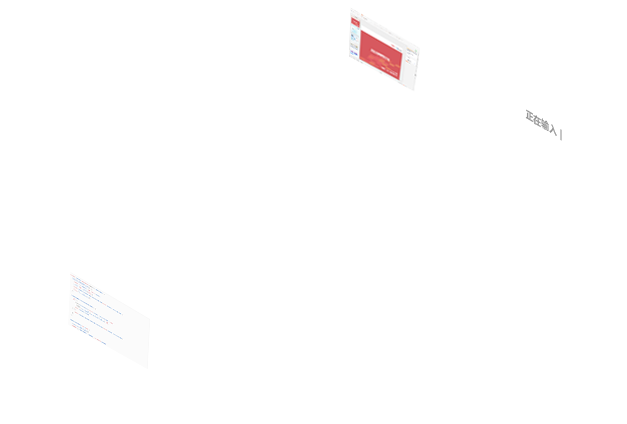
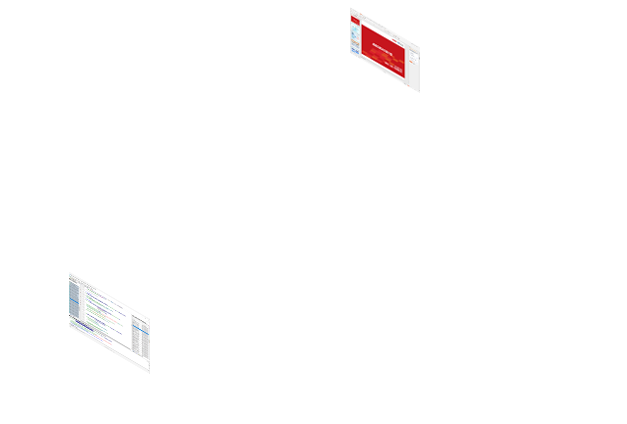
登录页动画修改

diff --git a/src/pages/Login/index.js b/src/pages/Login/index.js
@@ -11,6 +11,7 @@ export default class Login extends Component {
           <div className="content-left">
             <div className="animate jiqun"></div>
             <div className="animate animate3"></div>
+            <div className="animate animate4"></div>
             <div className="animate-div animate-div1"></div>
             <div className="animate-div animate-div2"></div>
           </div>

diff --git a/src/pages/Login/login.less b/src/pages/Login/login.less
@@ -78,6 +78,14 @@ body {
         width: 627px;
         height: 424px;
       }
+      .animate4 {
+        animation-delay: 1s;
+        background: url('../../assets/animate4.gif') center center
+          no-repeat;
+        background-size: contain;
+        width: 627px;
+        height: 424px;
+      }
       .animate-div {
         width: 627px;
         height: 424px;
